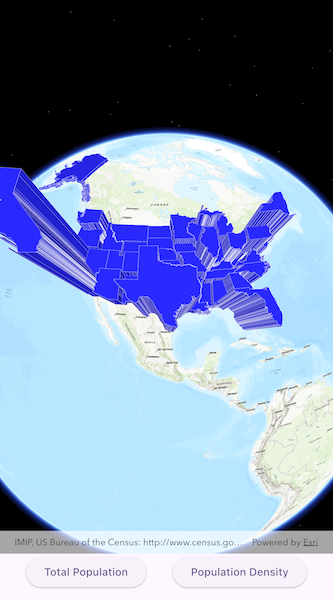
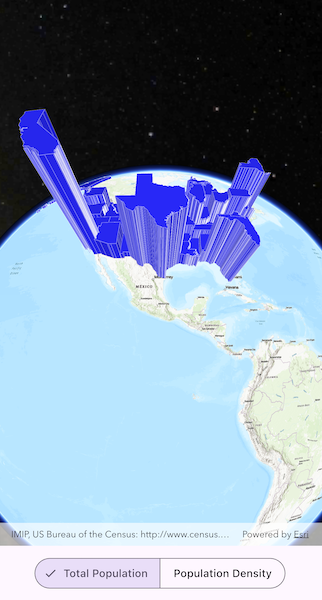
Update to use toggle buttons

diff --git a/lib/samples/show_extruded_features/show_extruded_features.dart b/lib/samples/show_extruded_features/show_extruded_features.dart
@@ -51,19 +51,21 @@ class _ShowExtrudedFeaturesState extends State<ShowExtrudedFeatures>
                     onSceneViewReady: onSceneViewReady,
                   ),
                 ),
-                Row(
-                  mainAxisAlignment: MainAxisAlignment.spaceEvenly,
-                  // Create a set of evenly spaced buttons for each FilterType value, and when a button is pressed,
-                  // it triggers the changeExtrusionExpression function with the selected filter.
-                  children: FilterType.values
-                      .map(
-                        (filterType) => ElevatedButton(
-                          onPressed: () =>
-                              changeExtrusionExpression(filterType),
-                          child: Text(filterType.name),
-                        ),
-                      )
-                      .toList(),
+                Padding(
+                  padding: const EdgeInsets.all(12),
+                  child: SegmentedButton<FilterType>(
+                    segments: FilterType.values
+                        .map(
+                          (filterType) => ButtonSegment<FilterType>(
+                            value: filterType,
+                            label: Text(filterType.name),
+                          ),
+                        )
+                        .toList(),
+                    selected: {_filterType},
+                    onSelectionChanged: (selection) =>
+                        changeExtrusionExpression(selection.first),
+                  ),
                 ),
               ],
             ),
